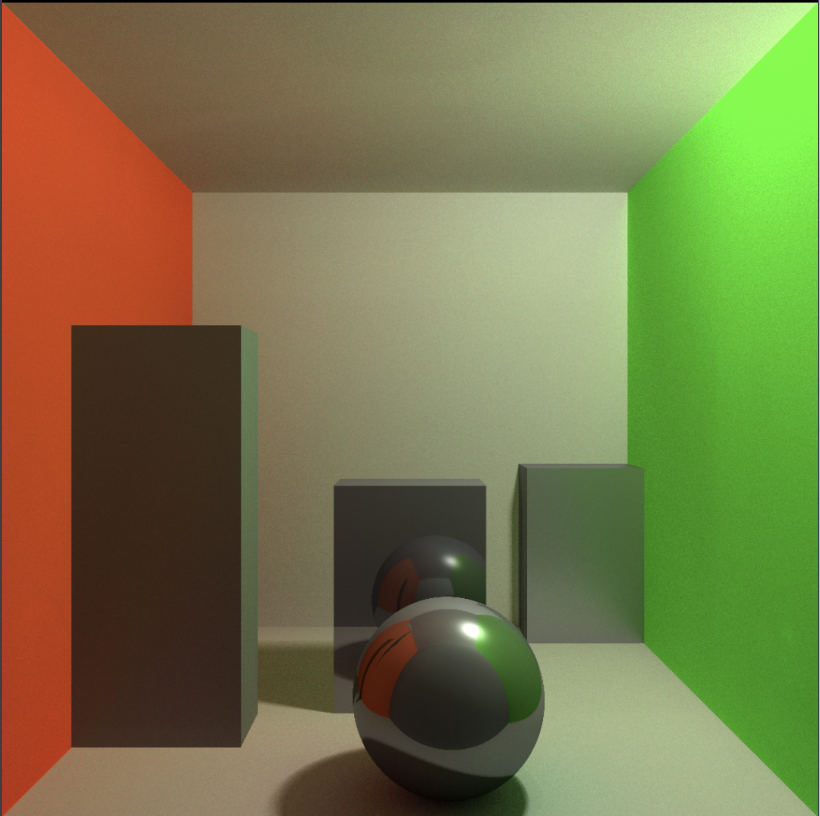
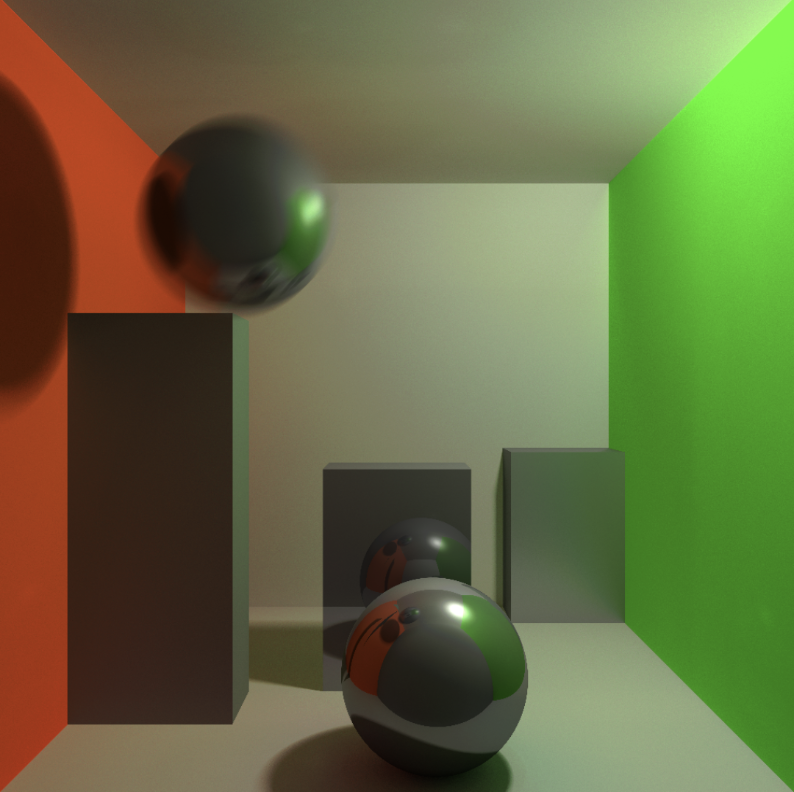
add simple time based motion blur implementation

diff --git a/app/src/main/java/com/ragnarok/raytracing/glsl/cornellbox.kt b/app/src/main/java/com/ragnarok/raytracing/glsl/cornellbox.kt
@@ -6,6 +6,7 @@ import org.intellij.lang.annotations.Language
 val cornellBox = """
     const int BOX_NUMS = 3;
     const int SPHERE_NUMS = 1;
+    const int MOVE_SPHERE_NUMS = 1;
     const Material diffuseMaterial = Material(DIFFUSE, vec3(0.5), 0.0, 0.0, 0.0, false, 0.0);
     const Material mirrorMaterial = Material(MIRROR, vec3(0.5), 0.0, 0.0, 0.0, false, 0.0);
     const Material glossyMaterial = Material(GLOSSY, vec3(0.5), 0.0, 0.0, 0.0, false, 0.0);
@@ -17,6 +18,9 @@ val cornellBox = """
     );
     Sphere boxSpheres[SPHERE_NUMS] = Sphere[SPHERE_NUMS](
         Sphere(vec3(0.1, -0.75, 0.5), 0.25, mirrorMaterial)
+    );
+    MoveSphere moveSpheres[MOVE_SPHERE_NUMS] = MoveSphere[MOVE_SPHERE_NUMS](
+        MoveSphere(vec3(-0.4, 0.5, 0.5), vec3(-0.45, 0.45, 0.5), 0.25, mirrorMaterial)
     );
     
     PointLight pointLight = PointLight(vec3(1.0, 1.0, 0.5), 0.1, vec3(1.0), 1.5);
@@ -67,6 +71,16 @@ val cornellBox = """
             }
         }
         
+        for (int i = 0; i < MOVE_SPHERE_NUMS; i++) {
+            intersect = intersectMoveSphere(ray, moveSpheres[i]);
+            if (intersect.nearFar.x > 0.0 && intersect.nearFar.x < t) {
+                t = intersect.nearFar.x;
+                hit = pointAt(ray, t);
+                normal = normalForMoveSphere(hit, ray.time, moveSpheres[i]);
+                material = moveSpheres[i].material;
+            }    
+        }    
+        
         intersect.t = t;
         if (t == ${PassVariable.infinity}) {
             intersect.nearFar = vec2(${PassVariable.infinity}, ${PassVariable.infinity});
@@ -100,6 +114,13 @@ val cornellBox = """
                 shadow = 0.0;
             }   
         }
+        
+        for (int i = 0; i < MOVE_SPHERE_NUMS; i++) {
+            intersect = intersectMoveSphere(shadowRay, moveSpheres[i]);
+            if (intersect.nearFar.x < 1.0) {
+                shadow = 0.0;
+            }    
+        }        
 
         return shadow;
     }

diff --git a/app/src/main/java/com/ragnarok/raytracing/glsl/intersection.kt b/app/src/main/java/com/ragnarok/raytracing/glsl/intersection.kt
@@ -59,6 +59,34 @@ val normalForSphere = """
 """.trimIndent()
 
 @Language("glsl")
+val intersectMoveSphere = """
+    Intersection intersectMoveSphere(Ray ray, MoveSphere sphere) {
+        Intersection intersect;
+        vec3 toSphere = ray.origin - centerOfMoveSphere(ray.time, sphere);
+        float a = dot(ray.direction, ray.direction);
+        float b = 2.0 * dot(toSphere, ray.direction);
+        float c = dot(toSphere, toSphere) - sphere.radius*sphere.radius;
+        float discriminant = b*b - 4.0*a*c;
+        if(discriminant > 0.0) {
+            float t = (-b - sqrt(discriminant)) / (2.0 * a);
+            if(t > 0.0) {
+                intersect.nearFar = vec2(t, t);
+                return intersect;
+            }
+        }
+        intersect.nearFar = vec2(${PassVariable.infinity}, ${PassVariable.infinity});
+        return intersect;
+    }
+""".trimIndent()
+
+@Language("glsl")
+val normalForMoveSphere = """
+    vec3 normalForMoveSphere(vec3 hit, float time, MoveSphere sphere) {
+        return normalize(hit - centerOfMoveSphere(time, sphere));
+    }
+""".trimIndent()
+
+@Language("glsl")
 val intersectPlane = """
     Intersection intersectPlane(Ray ray, Plane plane) {
         Intersection intersect;
@@ -101,4 +129,6 @@ val intersections = """
     $intersectPlane
     $normalForPlane
     $intersectPointLight
+    $intersectMoveSphere
+    $normalForMoveSphere
 """.trimIndent()

diff --git a/app/src/main/java/com/ragnarok/raytracing/glsl/tracemain.kt b/app/src/main/java/com/ragnarok/raytracing/glsl/tracemain.kt
@@ -173,6 +173,7 @@ val traceLoop = """
             lastRay = ray;
             newRay.origin = intersect.hit + newRay.direction * ${PassVariable.eps};
             ray = newRay;
+            ray.time = mix(cameraShutterOpenTime, cameraShutterCloseTime, randSeed());
         }
         return max(radiance,vec3(0.0));
     }
@@ -241,7 +242,7 @@ val tracerFs = { scene: String ->
         vec3 direction = vec3(vPosJitter, -1.0) * vec3(cameraAspect, 1.0, cameraFov);
         direction = normalize(direction);
         
-        vec2 lensPoints = cameraAperture * sampleCircle(ran);
+        vec2 lensPoints = cameraAperture * sampleCircle(vec2(randSeed(), randSeed()));
         // intersect ray with focus plane
         float t = cameraFocusLength / direction.z; // intersect ray distance t
         // calculate the intersect point on focus plane
@@ -263,6 +264,9 @@ val tracerFs = { scene: String ->
             ray = getInitRayWithDepthOfField();
         } else {
             ray = getInitRay();
+        }
+        if (cameraShutterOpenTime >= 0.0 && cameraShutterCloseTime > 0.0 && cameraShutterCloseTime > cameraShutterOpenTime) {
+            ray.time = mix(cameraShutterOpenTime, cameraShutterCloseTime, randSeed());
         }
         vec3 color = calcColor(ray);
         color = max(vec3(0.0), color);

diff --git a/app/src/main/java/com/ragnarok/raytracing/glsl/primitive.kt b/app/src/main/java/com/ragnarok/raytracing/glsl/primitive.kt
@@ -4,6 +4,8 @@ import org.intellij.lang.annotations.Language
 
 // shader data structure defines
 
+//TODO: object transformation, rotate/scale/translate
+
 @Language("glsl")
 val ray = """
     struct Ray {
@@ -70,6 +72,15 @@ val sphere = """
         float radius;
         Material material;
     };
+    struct MoveSphere {
+        vec3 centerStart;
+        vec3 centerEnd;
+        float radius;
+        Material material;
+    };
+    vec3 centerOfMoveSphere(float time, MoveSphere sphere) {
+        return mix(sphere.centerStart, sphere.centerEnd, time);
+    }
 """.trimIndent()
 
 @Language("glsl")

diff --git a/app/src/main/java/com/ragnarok/raytracing/renderer/RayTracingRenderer.kt b/app/src/main/java/com/ragnarok/raytracing/renderer/RayTracingRenderer.kt
@@ -47,6 +47,8 @@ class RayTracingRenderer(private val context: Context, scene: Int) : GLSurfaceVi
             Scenes.CORNELL_BOX -> {
                 camera = Camera(Vec3(0.0, 0.0, 2.5), 30.0f)
                 fs = tracerFs(cornellBox)
+                camera.shutterOpenTime = 0.0f
+                camera.shutterCloseTime = 1.0f
                 needToneMapping = false
             }
             Scenes.PBR_SPHERE -> {

diff --git a/README.md b/README.md
@@ -16,14 +16,13 @@ Known problems:
 
 ### TODO:
 
-- Motion Blur
 - Texture Support
 - BVH && Model Loading
 
 
 ------
 
-Cornell Box: 
+Cornell Box(with Motion Blur): 
 
 ![](cornell_box.png)
 
